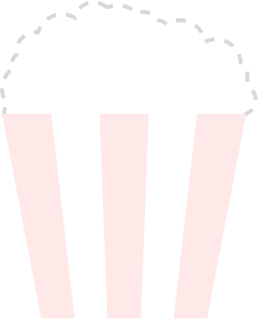
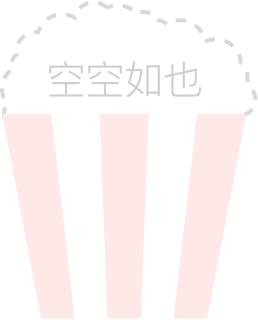
1. 添加空空如也效果

Changed region(s): [[0.186, 0.1875, 0.6202, 0.3125], [0.6512, 0.1875, 0.7752, 0.3125]]

diff --git a/app/static/js/calendar/calendar.js b/app/static/js/calendar/calendar.js
@@ -5,13 +5,13 @@
 
 $(function () {
     startCalendar();
-     $(".event-calendar tr td div").hover(function () {
-       $(this).addClass('pick');
+    $(".event-calendar tr td div").hover(function () {
+            $(this).addClass('pick');
 //       if($(this).hasClass('current-day')){
 //            $(this).removeClass('current-day');
 //            }
-    },function(){
-       $(this).removeClass('pick');
+        }, function () {
+            $(this).removeClass('pick');
         }
     )
 });
@@ -51,16 +51,16 @@ startEventDay = function () {
                 var dateStr = year + '-' + month + '-' + day;
                 if (dict[dateStr] > 0) {
                     $(this).prepend('<div class="half_circle"></div>')
-                     $(this).addClass('pos-fix');
-                     var d = new Date();
-                     var m = d.getMonth()+1;
-                     if(m>12) m = m-12;
-                     console.log(m);
-                     console.log(month);
-                     if(d.getDate()==day&&m==month&&d.getFullYear()==year){
-                     $('tbody.event-calendar td[date-month="' + d.getMonth() + '"][date-day="' + d.getDate() + '"][date-year="' + d.getFullYear() + '"] ').removeClass('pos-fix');
-                     console.log("ddd");
-                     }
+                    $(this).addClass('pos-fix');
+                    var d = new Date();
+                    var m = d.getMonth() + 1;
+                    if (m > 12) m = m - 12;
+                    console.log(m);
+                    console.log(month);
+                    if (d.getDate() == day && m == month && d.getFullYear() == year) {
+                        $('tbody.event-calendar td[date-month="' + d.getMonth() + '"][date-day="' + d.getDate() + '"][date-year="' + d.getFullYear() + '"] ').removeClass('pos-fix');
+                        console.log("ddd");
+                    }
 
                 }
             })
@@ -91,10 +91,9 @@ startEventDay = function () {
             }
 
             $('.event-list').append(
-                     // '<div class="panel m-t-sm p-t p-b empty event-hidden" style="margin-top: 0px"> \
-                     //     <img src="/assets/images/common/empty.png" alt="" class="empty_img"> \
-                     //     <p class="p-t-sm empty_text">空空如也</p> \
-                     // </div>'
+                '<div class="empty-list event-hidden"> \
+                   <img src="image/photo/popcorn.png"/> \
+                </div>'
             )
 
             $('.event-btn').click(function () {
@@ -126,8 +125,8 @@ writeByTime = function (year, month, day) {
 
     var num = 0;
 
-    if (!$('.empty').hasClass('event-hidden')) {
-        $('.empty').addClass('event-hidden');
+    if (!$('.empty-list').hasClass('event-hidden')) {
+        $('.empty-list').addClass('event-hidden');
     }
     $('.event-btn').each(function () {
         if (!$(this).hasClass('event-hidden')) {
@@ -143,7 +142,7 @@ writeByTime = function (year, month, day) {
 
     if (num == 0) {
         $('.activeInfo').text("没有记录提醒!");
-        $('.empty').removeClass('event-hidden')
+        $('.empty-list').removeClass('event-hidden')
     }
     else {
         $('.activeInfo').text("这一天有" + num + "个记录提醒！");
@@ -279,6 +278,7 @@ startCalendar = function () {
         function printWeek() {
             $('thead.event-days tr').append('<td>日</td><td>一</td><td>二</td><td>三</td><td>四</td><td>五</td><td>六</td>');
         }
+
 //        <div class="half-circle"></div>
         //填天数栏
         function printDay(monthNumber) {
@@ -286,15 +286,15 @@ startCalendar = function () {
             for (var index = 0; index < days.length; index++) {
                 var each = new Date(days[index]);
                 if (index < 7) {
-                    $('tbody.event-calendar tr.1').append('<td date-month="' + each.getMonth() + '" date-day="' + each.getDate() + '" date-year="' + each.getFullYear() + '"class="first-line">' + '<div class="">'+ each.getDate() + '</div></td>');
+                    $('tbody.event-calendar tr.1').append('<td date-month="' + each.getMonth() + '" date-day="' + each.getDate() + '" date-year="' + each.getFullYear() + '"class="first-line">' + '<div class="">' + each.getDate() + '</div></td>');
                 } else if (index < 14) {
-                    $('tbody.event-calendar tr.2').append('<td date-month="' + each.getMonth() + '" date-day="' + each.getDate() + '" date-year="' + each.getFullYear() + '">' + '<div class="">'+each.getDate() + '</div></td>');
+                    $('tbody.event-calendar tr.2').append('<td date-month="' + each.getMonth() + '" date-day="' + each.getDate() + '" date-year="' + each.getFullYear() + '">' + '<div class="">' + each.getDate() + '</div></td>');
                 } else if (index < 21) {
-                    $('tbody.event-calendar tr.3').append('<td date-month="' + each.getMonth() + '" date-day="' + each.getDate() + '" date-year="' + each.getFullYear() + '">' + '<div class="">'+each.getDate() + '</div></td>');
+                    $('tbody.event-calendar tr.3').append('<td date-month="' + each.getMonth() + '" date-day="' + each.getDate() + '" date-year="' + each.getFullYear() + '">' + '<div class="">' + each.getDate() + '</div></td>');
                 } else if (index < 28) {
-                    $('tbody.event-calendar tr.4').append('<td date-month="' + each.getMonth() + '" date-day="' + each.getDate() + '" date-year="' + each.getFullYear() + '">' +'<div class="">'+ each.getDate() + '</div></td>');
+                    $('tbody.event-calendar tr.4').append('<td date-month="' + each.getMonth() + '" date-day="' + each.getDate() + '" date-year="' + each.getFullYear() + '">' + '<div class="">' + each.getDate() + '</div></td>');
                 } else if (index < 35) {
-                    $('tbody.event-calendar tr.5').append('<td date-month="' + each.getMonth() + '" date-day="' + each.getDate() + '" date-year="' + each.getFullYear() + '">' +'<div class="">'+ each.getDate() + '</div></td>');
+                    $('tbody.event-calendar tr.5').append('<td date-month="' + each.getMonth() + '" date-day="' + each.getDate() + '" date-year="' + each.getFullYear() + '">' + '<div class="">' + each.getDate() + '</div></td>');
                 } else if (index < 42) {
                     $('tbody.event-calendar tr.6').append('<td date-month="' + each.getMonth() + '" date-day="' + each.getDate() + '" date-year="' + each.getFullYear() + '"class="last-line">' + each.getDate() + '</div></td>');
                 }

diff --git a/app/templates/movie/detailInfo.html b/app/templates/movie/detailInfo.html
@@ -10,6 +10,7 @@
     <link rel="stylesheet" href="/libs/jquery-weui.min.css">
     <link rel="stylesheet" href="/libs/weui.css">
     <link rel="stylesheet" href="/css/movie/detailInfo.css">
+    <link rel="stylesheet" href="/css/basic.css">
 </head>
 
 <body>
@@ -77,7 +78,10 @@
         {% endfor %}
     </div>
 {% else %}
-    空空如也
+    <div class="empty-list">
+        <span>空空如也</span>
+        <img src="image/photo/popcorn.png"/>
+    </div>
 {% endif %}
 
 <!-- js -->

diff --git a/app/templates/calendar/calendar.html b/app/templates/calendar/calendar.html
@@ -8,6 +8,7 @@
 
     <link rel="stylesheet" href="/libs/jquery-weui.min.css">
     <link rel="stylesheet" href="/libs/weui.min.css">
+    <link rel="stylesheet" href="/css/basic.css">
     <link rel="stylesheet" href="/css/calendar/calendar.css">
 
 </head>

diff --git a/app/static/css/basic.css b/app/static/css/basic.css
@@ -1,0 +1,11 @@
+.empty-list {
+    display: flex;
+    flex-direction: column;
+    justify-content: space-between;
+    align-items: center;
+    margin-top: 6%;
+}
+
+.empty-list img {
+    height: 30%;
+}

diff --git a/app/routes/user/friends.py b/app/routes/user/friends.py
@@ -28,7 +28,7 @@ def search_user(name, num):
     list = ready_for_MakeFriends(str(name), int(num))
     return jsonify({'userList': list, 'userNum': str(int(num) + 1)})
 
-
-@app.route('/friends/one/<int:myid>', methods=['GET'])
-@login_required
-def make_friends(myid):
+#
+# @app.route('/friends/one/<int:myid>', methods=['GET'])
+# @login_required
+# def make_friends(myid):
